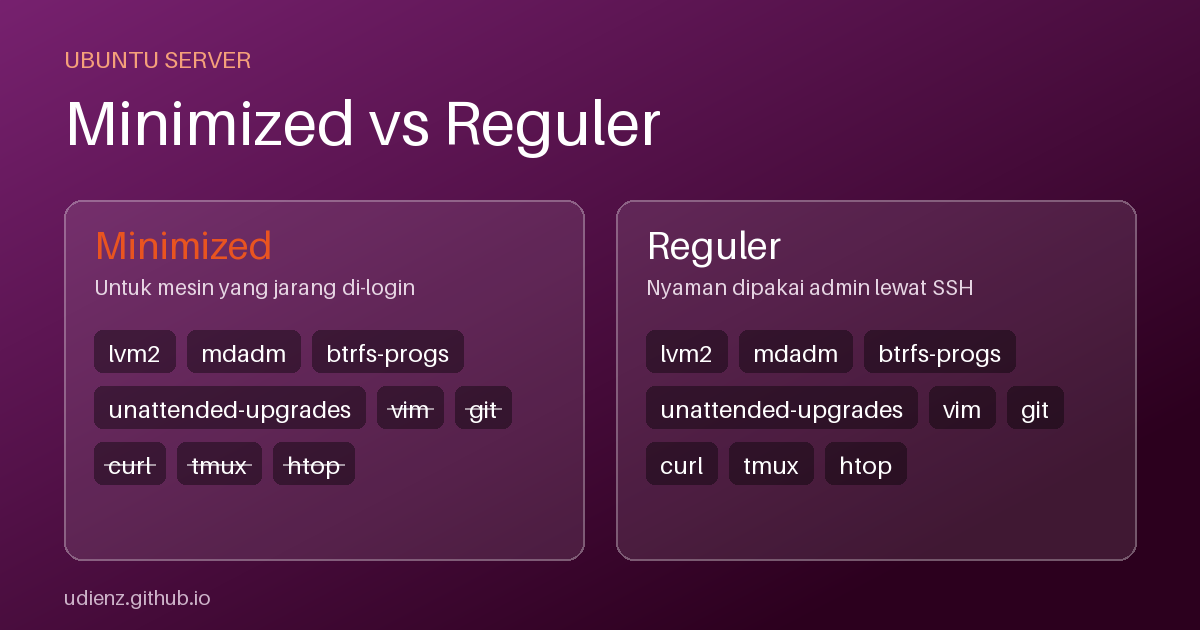
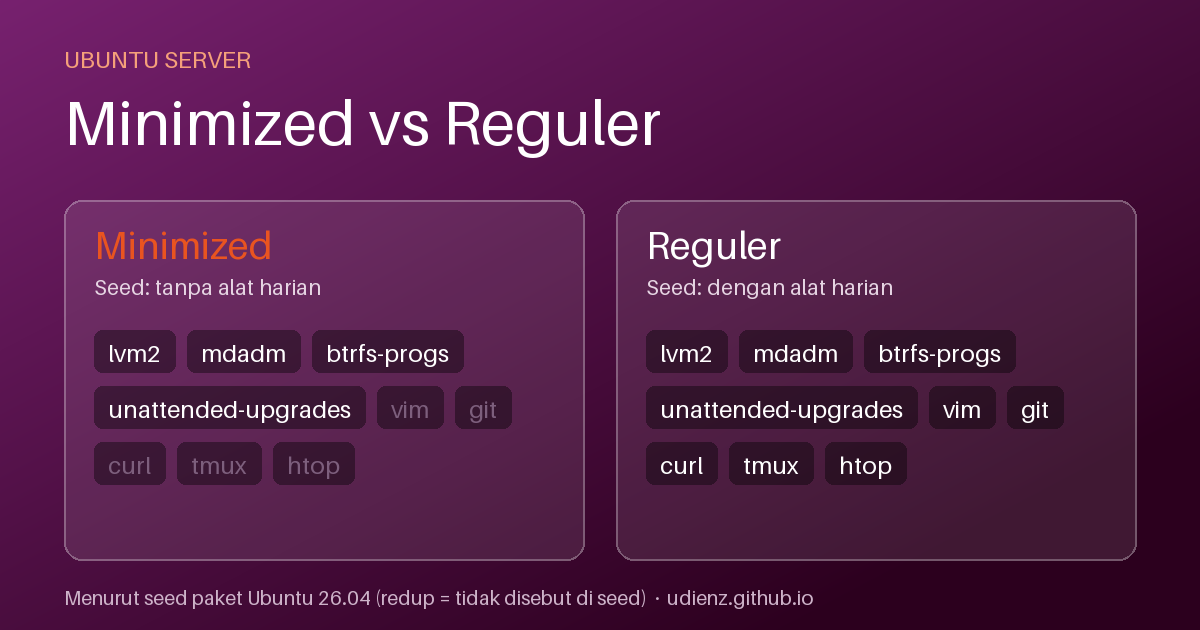
Address review feedback on Ubuntu Server minimized post

diff --git a/_posts/2026-11-10-ubuntu-server-minimal-vs-reguler.md b/_posts/2026-11-10-ubuntu-server-minimal-vs-reguler.md
@@ -21,7 +21,7 @@ Installer Ubuntu Server menawarkan dua pilihan di langkah pemilihan basis: *Ubun
 >
 > - Versi reguler berisi paket yang membuat admin nyaman bekerja langsung di server. Versi minimized dipangkas untuk mesin yang jarang atau tidak pernah di-login manusia.
 > - Alat disk dan filesystem seperti `lvm2`, `mdadm`, dan `btrfs-progs` tercantum di seed kedua versi. Yang hanya tercantum di seed reguler adalah alat harian seperti `vim`, `git`, `curl`, `tmux`, dan `htop`.
-> - Sistem minimized bisa dilengkapi tanpa memasang ulang dengan `sudo unminimize`.
+> - Sistem minimized bisa dilengkapi dengan `sudo unminimize` tanpa memasang ulang, tetapi hasilnya belum tentu sama persis dengan reguler.
 
 ## Apa kata Canonical
 
@@ -30,7 +30,7 @@ Berkas contoh sumber instalasi di [repositori Subiquity](https://github.com/cano
 - **Ubuntu Server (minimized):** "This version has been customized to have a small runtime footprint in environments where humans are not expected to log in."
 - **Ubuntu Server:** "The default install contains a curated set of packages that provide a comfortable experience for operating your server."
 
-Pembedanya adalah kenyamanan interaktif. Reguler memuat paket pilihan untuk mengoperasikan server, minimized memuat jejak kecil untuk mesin yang tidak di-login manusia. Di berkas autoinstall, kedua opsi itu bernama `ubuntu-server-minimal` dan `ubuntu-server`; [dokumentasi autoinstall](https://canonical-subiquity.readthedocs-hosted.com/en/latest/reference/autoinstall-reference.html) menyarankan membaca `casper/install-sources.yaml` di ISO untuk nilai yang berlaku, karena ID-nya bisa berubah.
+Di installer namanya *minimized*, dan ID-nya `ubuntu-server-minimal`, jadi "minimal" dan "minimized" di tulisan ini menunjuk opsi yang sama. Pembedanya adalah kenyamanan interaktif. Reguler memuat paket pilihan untuk mengoperasikan server, minimized memuat jejak kecil untuk mesin yang tidak di-login manusia. Di berkas autoinstall, kedua opsi itu bernama `ubuntu-server-minimal` dan `ubuntu-server`; [dokumentasi autoinstall](https://canonical-subiquity.readthedocs-hosted.com/en/latest/reference/autoinstall-reference.html) menyarankan membaca `casper/install-sources.yaml` di ISO untuk nilai yang berlaku, karena ID-nya bisa berubah.
 
 ## Perbandingan isi paket
 
@@ -38,13 +38,13 @@ Daftar di bawah mengacu pada seed paket Ubuntu 26.04: [`server-minimal`](https:/
 
 | Kelompok | Seed `server-minimal` | Seed `server` |
 |---|---|---|
-| Update otomatis | `unattended-upgrades`, `needrestart` | `unattended-upgrades`, `needrestart` (keduanya opsional) |
+| Update otomatis (opsional di kedua seed) | `unattended-upgrades`, `needrestart` | `unattended-upgrades`, `needrestart` |
 | Alat disk dan filesystem | `lvm2`, `mdadm`, `btrfs-progs`, `xfsprogs`, `cryptsetup`, `multipath-tools`, `open-iscsi`, `bcache-tools` | `lvm2`, `mdadm`, `btrfs-progs`, `xfsprogs`, `multipath-tools`, `open-iscsi`, `bcache-tools` |
 | Editor dan alat kerja | tidak tercantum | `vim`, `git`, `curl`, `tmux`, `patch`, `gnupg` |
 | Diagnosa | tidak tercantum | `htop`, `ethtool`, `sos`, `apport` |
 | Manajemen paket dan update | tidak tercantum | `software-properties-common`, `update-notifier-common` |
 
-Tabel ini hanya membandingkan dua seed. Paket yang disebut seed belum tentu seluruh isi sistem terpasang, dan `unminimize` (di bawah) juga memasang `ubuntu-standard` dari seed lain, jadi selisih nyatanya bisa lebih besar dari tabel.
+Tabel ini hanya membandingkan dua seed. Seed `server-minimal` dibangun di atas seed `server-cloud-minimal`, dan seed `server` tidak menyebut `cryptsetup` yang ada di seed minimal. Paket yang disebut seed juga belum tentu seluruh isi sistem terpasang, dan `unminimize` (di bawah) memasang `ubuntu-standard` dari seed lain, jadi selisih nyatanya bisa lebih besar dari tabel.
 
 Dokumentasi Canonical untuk image cloud minimal memberi gambaran serupa: "greatly reduced default package set, without many convenience tools for interactive usage", dan image itu "will require fewer security updates over time" ([Ubuntu base and minimal images](https://ubuntu.com/cloud/public-cloud/docs/all-clouds-explanation/ubuntu-base-and-minimal-images/)). Itu berlaku untuk image cloud, bukan untuk opsi di installer ISO.
 
@@ -55,16 +55,12 @@ dpkg -l | grep -c '^ii'
 df -h /
 ```
 
-## Dokumentasi dan man page
-
-Canonical menyebut `unminimize` memulihkan dokumentasi, man page, dan terjemahan pada image minimal. Skripnya mengubah `/etc/dpkg/dpkg.cfg.d/excludes` supaya dpkg kembali memasang dokumentasi, lalu memasang ulang paket yang berkas man page, dokumen, dan terjemahannya hilang.
-
 ## Kapan memilih yang mana
 
 **Minimized** cocok untuk:
 
 - VM atau mesin yang dibuat dan dikonfigurasi otomatis (cloud-init, Ansible, autoinstall).
-- Server tunggal-fungsi yang tidak pernah di-login manusia, atau jarang.
+- Server berfungsi tunggal yang jarang atau tidak pernah di-login manusia.
 - Kasus yang ingin jumlah paket sekecil mungkin.
 
 **Reguler** cocok untuk:
@@ -72,7 +68,7 @@ Canonical menyebut `unminimize` memulihkan dokumentasi, man page, dan terjemahan
 - Server yang Anda kelola sendiri lewat SSH dan butuh `vim`, `git`, atau `htop` tersedia saat darurat.
 - Pemula yang belum tahu alat apa yang akan dibutuhkan.
 
-Untuk image cloud minimal, Canonical menulis bahwa instans minimal "are not intended to be comfortable to use at the command line". Bila Anda akan sering login langsung, pilih reguler.
+Bila Anda akan sering login langsung, pilih reguler.
 
 ## Melengkapi sistem minimized
 
@@ -82,10 +78,6 @@ Tidak perlu memasang ulang:
 sudo unminimize
 ```
 
-Skrip ini meminta konfirmasi, menjalankan `apt-get update` dan `apt-get upgrade`, memulihkan dokumentasi, lalu memasang `ubuntu-minimal` dan `ubuntu-standard` ([sumber skrip](https://git.launchpad.net/ubuntu/+source/unminimize/tree/unminimize)). Pemasangan ulang paket bisa gagal bila sistem sudah banyak berubah, dan skrip sendiri memperingatkan hal itu.
-
-## Ringkasan
-
-Paket yang tidak ada di minimized tinggal dipasang dengan `apt`, jadi pilihan ini menentukan titik awal. Kalau Anda sering login langsung, mulai dari reguler.
+Skrip [`unminimize`](https://git.launchpad.net/ubuntu/+source/unminimize/tree/unminimize) menyatakan dirinya "restores content and packages that are found on a default Ubuntu server system in order to make this system more suitable for interactive use". Urutannya: meminta konfirmasi, menjalankan `apt-get update` dan `apt-get upgrade`, mengubah `/etc/dpkg/dpkg.cfg.d/excludes` supaya dokumentasi, man page, dan terjemahan terpasang lagi, lalu memasang `ubuntu-minimal` dan `ubuntu-standard`. Skrip itu juga memperingatkan bahwa pemasangan ulang paket bisa gagal karena konfigurasi yang berubah atau paket pihak ketiga. Skrip memasang `ubuntu-minimal` dan `ubuntu-standard`, bukan seed `server` secara langsung, jadi cek apakah alat yang Anda butuhkan, misalnya `vim`, sudah kembali. Untuk satu atau dua alat saja, `apt install` langsung lebih ringan.
 
 Tulisan ini dibantu oleh AI.
